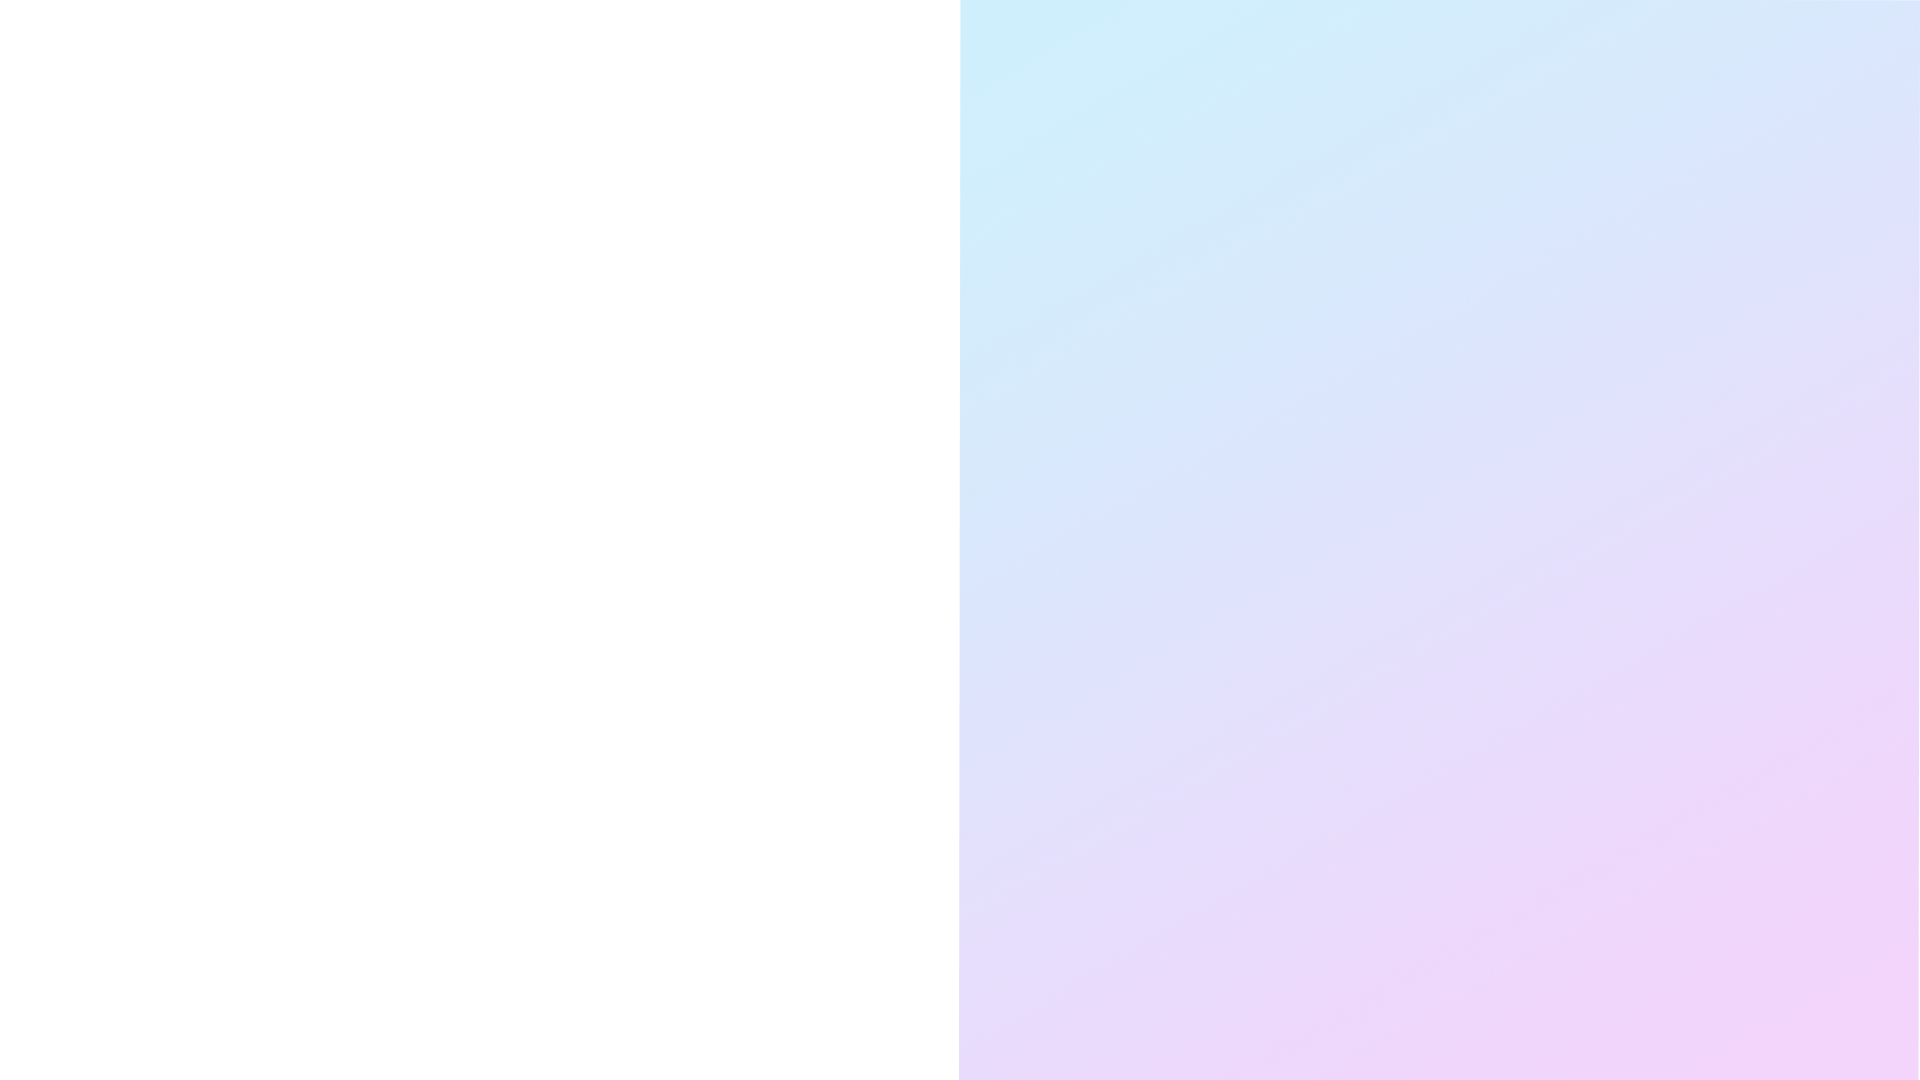
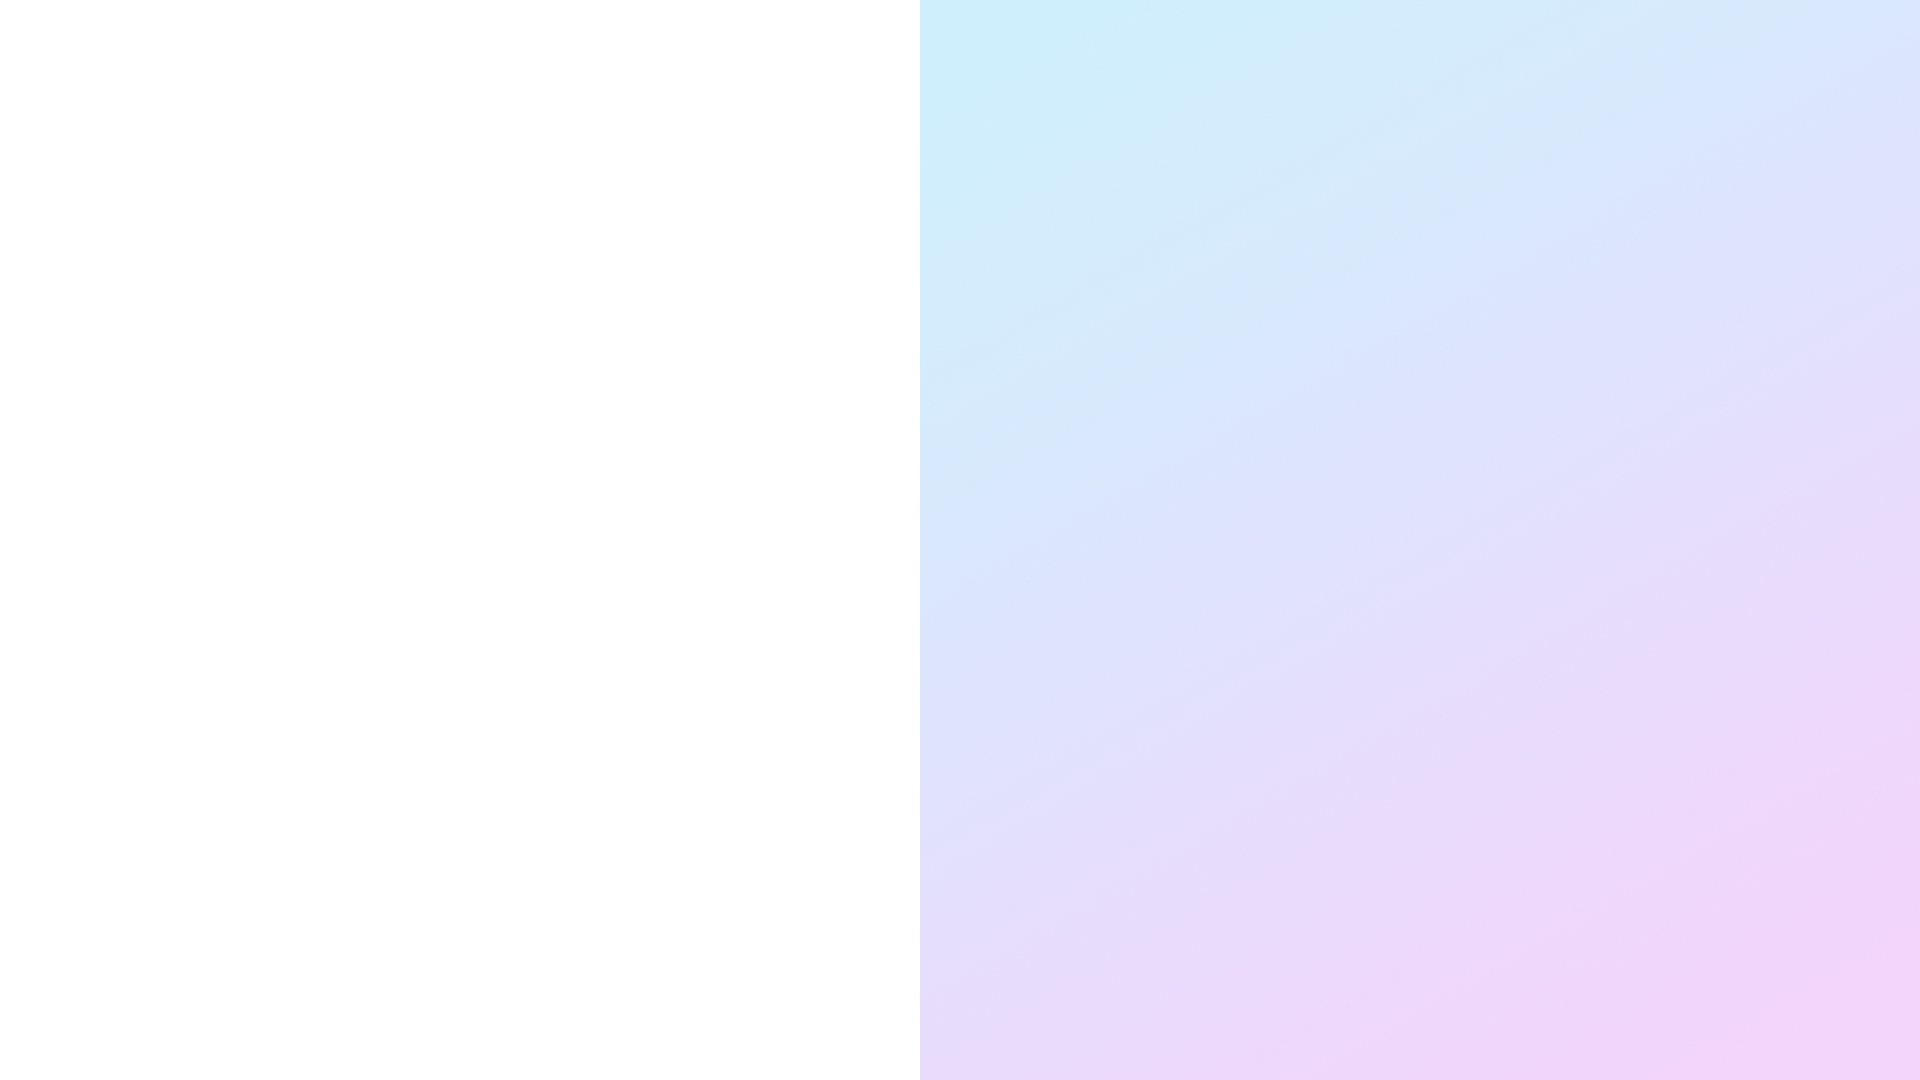
build: change background

Changed region(s): [[0.4688, 0.0, 0.5, 1.0]]

diff --git a/Client/Client/Client/MainWindow.xaml b/Client/Client/Client/MainWindow.xaml
@@ -76,7 +76,7 @@
 					<ColumnDefinition Width="1*"/>
 				</Grid.ColumnDefinitions>
 
-				<Image Source="./Resource/side-bg.png" Grid.Column="1" Stretch="Fill"/>
+				
 			</Grid>
 		</Border>
 	</Grid>
